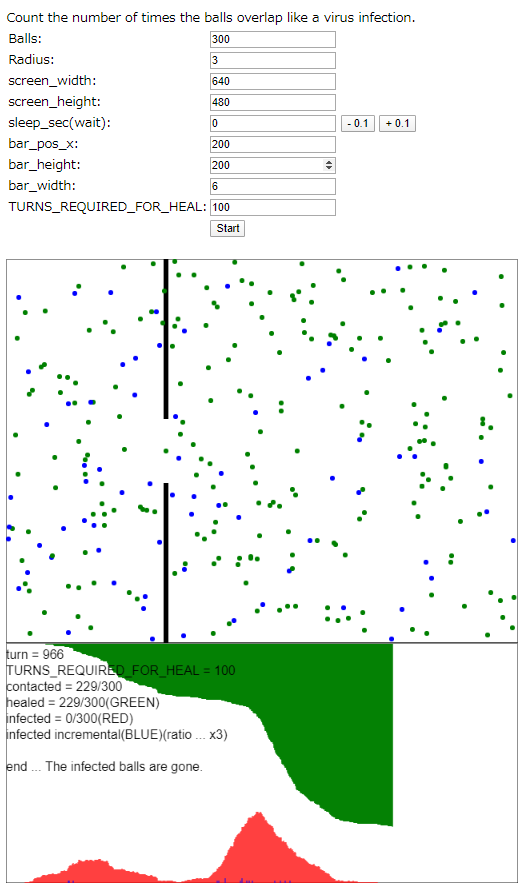
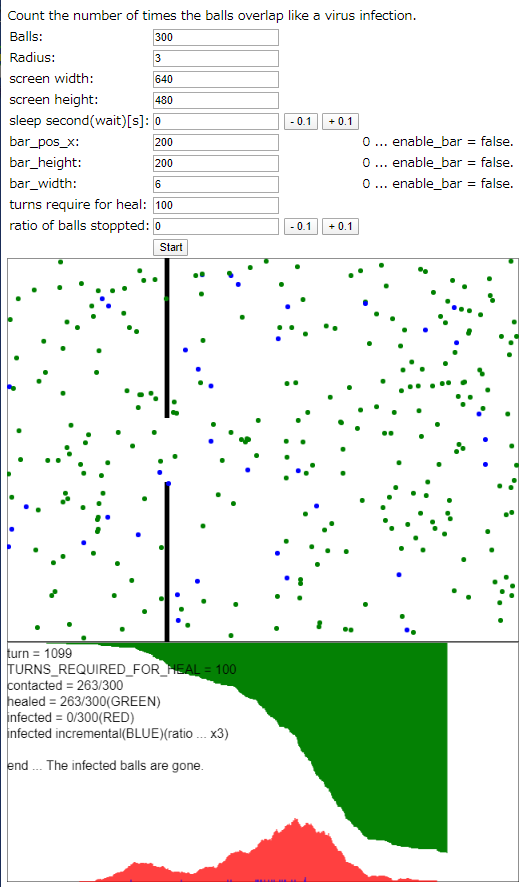
modify ratio_of_balls_stoppted.

diff --git a/index.html b/index.html
@@ -14,20 +14,23 @@
     <table border = 0>
         <div><tr><td>Balls:</td><td><input v-model="max_balls" type="number"/></td></tr></div>
         <div><tr><td>Radius:</td><td><input v-model="radius" type="number"/></td></tr></div>
-        <div><tr><td>screen_width:</td><td><input v-model="screen_width" type="number"/></td></tr></div>
-        <div><tr><td>screen_height:</td><td><input v-model="screen_height" type="number"/></td></tr></div>
-        <div><tr><td>sleep_sec(wait):</td><td><input v-model="sleep_sec" type="number"/>
-            <button type="button" v-on:click="click_sleep_sec_muins">- 0.1</button>
+        <div><tr><td>screen width:</td><td><input v-model="screen_width" type="number"/></td></tr></div>
+        <div><tr><td>screen height:</td><td><input v-model="screen_height" type="number"/></td></tr></div>
+        <div><tr><td>sleep second(wait)[s]:</td><td><input v-model="sleep_sec" type="number"/>
+            <button type="button" v-on:click="click_sleep_sec_minus">- 0.1</button>
             <button type="button" v-on:click="click_sleep_sec_plus">+ 0.1</button>
         </td></tr></div>
-        <div><tr><td>bar_pos_x:</td><td><input v-model="bar_pos_x" type="number"/></td></tr></div>
-        <div><tr><td>bar_height:</td><td><input v-model="bar_height" type="number"/></td></tr></div>
-        <div><tr><td>bar_width:</td><td><input v-model="bar_width" type="number"/></td></tr></div>
-        <div><tr><td>TURNS_REQUIRED_FOR_HEAL:</td><td><input v-model="turns_required_for_heal" type="number"/></td></tr></div>
+        <div><tr><td>bar_pos_x:</td><td><input v-model="bar_pos_x" type="number"/></td><td>0 ... enable_bar = false.<td></tr></div>
+        <div><tr><td>bar_height:</td><td><input v-model="bar_height" type="number"/></td><td>0 ... enable_bar = false.<td></tr></div>
+        <div><tr><td>bar_width:</td><td><input v-model="bar_width" type="number"/></td><td>0 ... enable_bar = false.<td></tr></div>
+        <div><tr><td>turns require for heal:</td><td><input v-model="turns_required_for_heal" type="number"/></td></tr></div>
+        <div><tr><td>ratio of balls stoppted:</td><td><input v-model="ratio_of_balls_stoppted" type="number"/>
+            <button type="button" v-on:click="click_ratio_stopped_minus">- 0.1</button>
+            <button type="button" v-on:click="click_ratio_stopped_plus">+ 0.1</button>
+        </td></tr></div>
         <div><tr><td></td><td><button type="button"  v-on:click='clickCalc' class="btn">Start</button></td></tr></div>
     </table>
     </div>
-    <br>
     <div>
         <canvas width="640" height="780" id="screen" style="background-color:white;">
           You need a browser that supports the canvas tag.
@@ -92,7 +95,7 @@ class Bar {
     }
 }
 
-class Postion {
+class Position {
     constructor(x, y) {
        this.x = x;
        this.y = y;
@@ -219,7 +222,7 @@ function init_ball_position(PARAMS) {
     }
     y = Math.floor(Math.random() *(PARAMS.SCREEN_HEIGHT - PARAMS.RADIUS - PARAMS.RADIUS)) + PARAMS.RADIUS;
 
-    return new Postion(x, y)
+    return new Position(x, y)
 }
 
 function init_screen(context, SCREEN_WIDTH, SCREEN_HEIGHT, CHART_HEIGHT) {
@@ -259,7 +262,7 @@ function calc(balls_max, radius, screen_width, screen_height, sleep_sec, chart_h
         sleep_sec,
         chart_height,
         enable_bar,
-        BAR = bar,
+        bar,
         turns_required_for_heal,
         ratio_of_balls_stoppted
     );
@@ -282,12 +285,12 @@ function calc(balls_max, radius, screen_width, screen_height, sleep_sec, chart_h
         // When RATIO_OF_BALLS_STOPPED is not specified.
         for (var i = 0; i < PARAMS.MAX_BALLS; i++) {
             var pos = init_ball_position(PARAMS);
-            var add = new Postion(0, 0);
+            var add = new Position(0, 0);
             while (add.x == 0)
                 add.x = Math.floor(Math.random() * (PARAMS.MOVEMENT.max - PARAMS.MOVEMENT.min)) + PARAMS.MOVEMENT.min;
             while (add.y == 0)
                 add.y = Math.floor(Math.random() * (PARAMS.MOVEMENT.max - PARAMS.MOVEMENT.min)) + PARAMS.MOVEMENT.min;
-            balls[i] = new Ball(pos, add, new Postion(PARAMS.SCREEN_WIDTH, PARAMS.SCREEN_HEIGHT), PARAMS.RADIUS, "blue");
+            balls[i] = new Ball(pos, add, new Position(PARAMS.SCREEN_WIDTH, PARAMS.SCREEN_HEIGHT), PARAMS.RADIUS, "blue");
         }
     } else {
         // When RATIO_OF_BALLS_STOPPED is specified.
@@ -299,13 +302,14 @@ function calc(balls_max, radius, screen_width, screen_height, sleep_sec, chart_h
                 add.x = Math.floor(Math.random() * (PARAMS.MOVEMENT.max - PARAMS.MOVEMENT.min)) + PARAMS.MOVEMENT.min;
             while (add.y == 0)
                 add.y = Math.floor(Math.random() * (PARAMS.MOVEMENT.max - PARAMS.MOVEMENT.min)) + PARAMS.MOVEMENT.min;
-            balls[i] = new Ball(pos, add, new Postion(PARAMS.SCREEN_WIDTH, PARAMS.SCREEN_HEIGHT), PARAMS.RADIUS, "blue");
+            balls[i] = new Ball(pos, add, new Position(PARAMS.SCREEN_WIDTH, PARAMS.SCREEN_HEIGHT), PARAMS.RADIUS, "blue");
         }
 
-        var add = new Postion(0, 0);
+        var add = new Position(0, 0);
         for (var i = target_max; i < PARAMS.MAX_BALLS; i++) {
             var pos = init_ball_position(PARAMS);
-            balls[i] = new ball(pos, add, new Postion(PARAMS.SCREEN_WIDTH, PARAMS.SCREEN_HEIGHT), PARAMS.RADIUS, "blue");
+            var add = new Position(0, 0);
+            balls[i] = new Ball(pos, add, new Position(PARAMS.SCREEN_WIDTH, PARAMS.SCREEN_HEIGHT), PARAMS.RADIUS, "blue");
         }
     }
 
@@ -605,6 +609,7 @@ var bar_height = 200;
 var bar_width = 6;
 var turns_required_for_heal = 100;
 var ratio_of_balls_stoppted = 0.0;
+var enable_bar = false;
 
 var vm = new Vue({
     el: '#app',
@@ -645,24 +650,44 @@ var vm = new Vue({
             bar_pos_x = Number(this.bar_pos_x);
             bar_height = Number(this.bar_height);
             bar_width = Number(this.bar_width);
+            turns_required_for_heal = Number(this.turns_required_for_heal);
+            ratio_of_balls_stoppted = Number(this.ratio_of_balls_stoppted);
 
-            if (bar_pos_x <= 0 || bar_height <= 0) {
-                var result = calc(max_balls, radius, screen_width, screen_height, sleep_sec, max_balls, false, new Bar(bar_pos_x, bar_height, bar_width), turns_required_for_heal, ratio_of_balls_stoppted);            
+            if (bar_pos_x <= 0 || bar_height <= 0 || bar_width <= 0) {
+                enable_bar = false;
             } else {
-                var result = calc(max_balls, radius, screen_width, screen_height, sleep_sec, max_balls, true, new Bar(bar_pos_x, bar_height, bar_width), turns_required_for_heal, ratio_of_balls_stoppted);
+                enable_bar = true;
             }
+            var result = calc(max_balls, radius, screen_width, screen_height, sleep_sec, max_balls, enable_bar, new Bar(bar_pos_x, bar_height, bar_width), turns_required_for_heal, ratio_of_balls_stoppted);
 
             console.log(result);
         },
-        click_sleep_sec_muins: function() {
+        click_sleep_sec_minus: function() {
             if (this.sleep_sec > 0.0) {
                 this.sleep_sec = Math.floor((this.sleep_sec - 0.11)*10)/10.0;
-                if (this.sleep_sec < 0.0)
+
+                if (this.sleep_sec < 0.0) {
                     this.sleep_sec = 0.0;
+                }
             }
         },
         click_sleep_sec_plus: function() {
             this.sleep_sec = Math.floor((this.sleep_sec + 0.11)*10)/10.0;
+        },
+        click_ratio_stopped_minus: function() {
+            if (this.ratio_of_balls_stoppted > 0.0) {
+                this.ratio_of_balls_stoppted = Math.floor((this.ratio_of_balls_stoppted - 0.11)*10)/10.0;
+
+                if (this.ratio_of_balls_stoppted < 0.0) {
+                    this.ratio_of_balls_stoppted = 0.0;
+                }
+                if (this.ratio_of_balls_stoppted > 1.0) {
+                    this.ratio_of_balls_stoppted = 1.0;
+                }
+            }
+        },
+        click_ratio_stopped_plus: function() {
+            this.ratio_of_balls_stoppted = Math.floor((this.ratio_of_balls_stoppted + 0.11)*10)/10.0;
         },
     },
 })
